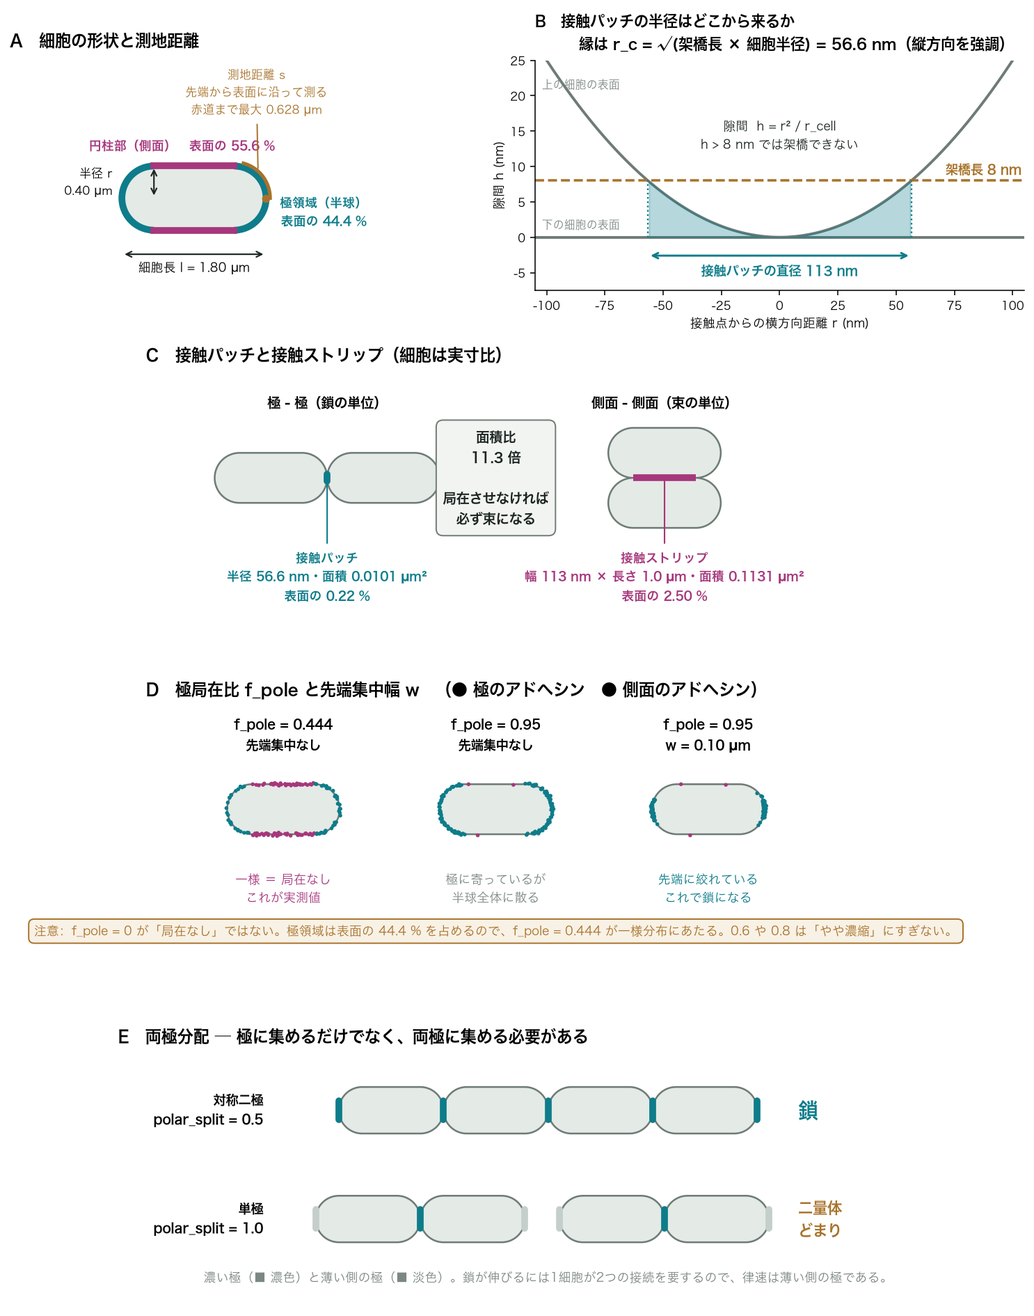
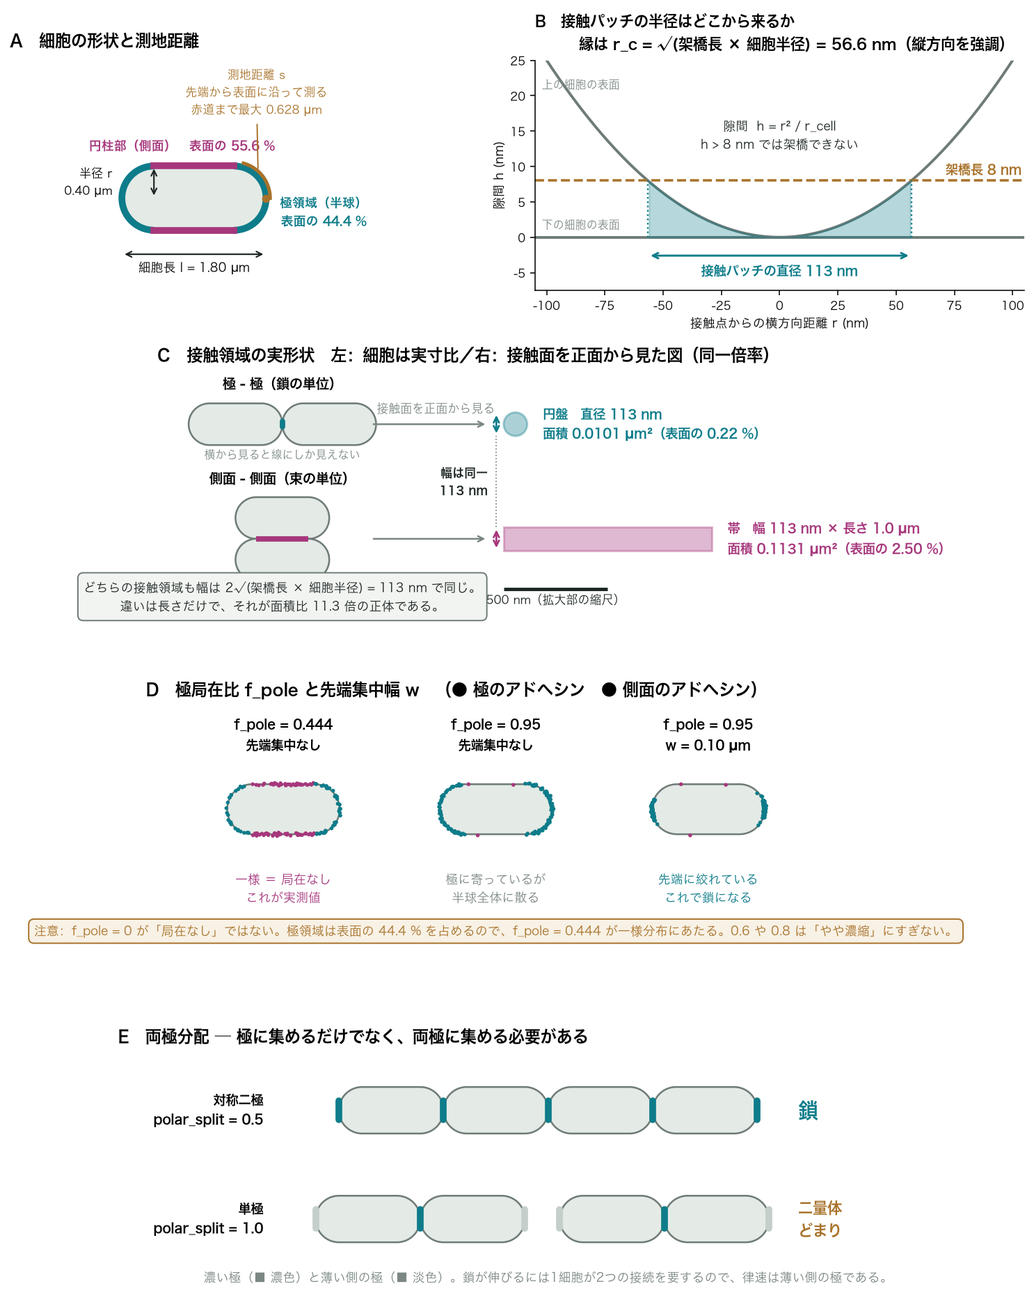
fix: 原著PDFの全文照合で見つかった書誌情報と f_p の誤りを修正した。
Costan et al. (2024) の PDF 全文を読み、モデルが使っている全パラメータを
本文と照合した。値そのものは 13 項目すべて正しかったが、書誌情報と
パラメータの意味づけに4件の誤りがあった。

修正した誤り:

1. 著者名。"Costan, Sara A." は誤りで、正しくは "Costan, Stefana A."。
   共著者も Ryan, P. M. と Wolgemuth, C. W. が欠けていた。
   正しくは Costan, Ryan, Kim, Wolgemuth, Riedel-Kruse の5名。

2. ページ番号。2836-2854 は誤りで、正しくは 2125-2143。

3. f_p = 0.5 の意味。「幾何的に届く分子のうち結合する割合」と説明していたが、
   原著では「プラスミドコピー数の非対称に対する補正係数」である。ナノボディ側が
   中コピー数（20-30）、抗原側が低コピー数（10-12）プラスミドに載っており、
   抗原が律速になるため 0.5 倍している。数値は変わらないが根拠が違う。
   両アドヘシンを同コピー数で発現させれば f_p は 1.0 に近づき、結合数は
   倍になりうる。これは設計上意味を持つので A4 の影響欄に明記した。

4. 破断力の不確かさ。本文の 16.1 ± 0.4 pN (n=14) に加え、要約表には
   系統誤差 1.8 pN が併記され、値も 16.2 と表記されている。また文献からの
   期待値は 28-45 pN で実測はそれより小さい。これらを注記した。

本文で確認できた事項:

- 2M = 8 nm は "the adhesin pair length" と明記されており、2細胞をまたぐ
  総額である。両細胞ぶんを足さない扱いが正しいことが確定した。
- 一様分布は「中央と極の10ピクセルで有意差なし (t検定 p = 0.56)」による。
- A_con = 0.002-0.036、結合数 7 ± 2（垂直配置）と 130 ± 30（水平配置）、
  無秩序充填で 30 ± 5。いずれも一致。
- N(100) = 7,300 ± 1,800、N(300) = 15,300 ± 4,100 (n=20)、
  表面密度 3,400 ± 1,200 /µm²、D = 0.36 ± 0.06 µm²/s、Mf = 0.37 ± 0.04。
  すべて一致。

あわせて用語図のパネルCを描き直した。接触領域を横から見た線として描いていて
面積であることが伝わらなかったため、接触面を正面から見た実形状（円盤と帯）を
同一倍率で並べる方式にした。2つの接触領域は幅が同一（113 nm）で、違いは
長さだけであることが図から読み取れる。

Changed region(s): [[0.0929, 0.2497, 0.8977, 0.4683]]

diff --git a/scripts/make_glossary_figure.py b/scripts/make_glossary_figure.py
@@ -26,7 +26,7 @@ matplotlib.use("Agg")
 import matplotlib.pyplot as plt
 import numpy as np
 from matplotlib import font_manager
-from matplotlib.patches import Arc, Polygon
+from matplotlib.patches import Arc, Circle, Polygon, Rectangle
 
 sys.path.insert(0, str(Path(__file__).resolve().parent.parent))
 
@@ -261,41 +261,96 @@ def panel_gap(axes):
 
 
 def panel_patch_vs_strip(axes):
-    """実寸比。パッチが線1本分にしか見えないことが要点。"""
-    # 左: 極 - 極
-    axes.text(-2.7, 1.42, "極 - 極（鎖の単位）", ha="center", fontsize=10, weight="bold")
-    draw_cell(axes, -3.6, 0.30)
-    draw_cell(axes, -1.8, 0.30)
-    axes.plot([-2.7, -2.7], [0.30 - PATCH_RADIUS, 0.30 + PATCH_RADIUS],
-              color=COLOR_POLE, lw=5, solid_capstyle="round", zorder=6)
-    axes.annotate(
-        "接触パッチ\n半径 56.6 nm・面積 0.0101 µm²\n表面の 0.22 %",
-        xy=(-2.7, 0.30), xytext=(-2.7, -1.28),
-        fontsize=9, color=COLOR_POLE, weight="bold", ha="center", va="center",
-        arrowprops=dict(arrowstyle="-", color=COLOR_POLE, lw=1.1),
-    )
+    """接触領域を正面から見た実形状で比較する。
 
-    # 右: 側面 - 側面
-    axes.text(2.7, 1.42, "側面 - 側面（束の単位）", ha="center", fontsize=10, weight="bold")
-    draw_cell(axes, 2.7, 0.30 + RADIUS)
-    draw_cell(axes, 2.7, 0.30 - RADIUS)
-    axes.plot([2.7 - HALF_CYLINDER, 2.7 + HALF_CYLINDER], [0.30, 0.30],
-              color=COLOR_SIDE, lw=5, solid_capstyle="butt", zorder=6)
-    axes.annotate(
-        "接触ストリップ\n幅 113 nm × 長さ 1.0 µm・面積 0.1131 µm²\n表面の 2.50 %",
-        xy=(2.7, 0.30), xytext=(2.7, -1.28),
-        fontsize=9, color=COLOR_SIDE, weight="bold", ha="center", va="center",
-        arrowprops=dict(arrowstyle="-", color=COLOR_SIDE, lw=1.1),
+    横から見ると接触領域は線にしか見えず、面積であることが伝わらない。
+    そこで接触面を正面から見た形を同一倍率で並べ、面積比を目で見えるようにする。
+
+    要点は、2つの接触領域が同じ幅を持つこと。どちらも幅は
+    2 * sqrt(架橋長 * 細胞半径) = 113 nm で決まり、違いは長さだけである。
+    """
+    ZOOM = 4.0                                # 拡大部の縮尺: 1 µm = 4 データ単位
+    patch_diameter = 2 * PATCH_RADIUS         # 0.1131 µm
+    strip_length = LENGTH - 2 * RADIUS        # 1.0 µm
+    left_edge = 0.55                          # 拡大形状の左端をそろえる
+    width_drawn = patch_diameter * ZOOM
+
+    # ---------------- 上段: 極 - 極 ----------------
+    y_top = 1.15
+    draw_cell(axes, -4.60, y_top)
+    draw_cell(axes, -2.80, y_top)
+    axes.plot([-3.70, -3.70], [y_top - PATCH_RADIUS, y_top + PATCH_RADIUS],
+              color=COLOR_POLE, lw=4, solid_capstyle="round", zorder=6)
+    axes.text(-3.70, y_top + 0.68, "極 - 極（鎖の単位）",
+              ha="center", fontsize=10, weight="bold")
+    axes.text(-3.70, y_top - 0.66, "横から見ると線にしか見えない",
+              ha="center", fontsize=8, color=COLOR_MUTED, style="italic")
+
+    radius_drawn = 0.5 * width_drawn
+    axes.add_patch(
+        Circle((left_edge + radius_drawn, y_top), radius_drawn,
+               facecolor=COLOR_POLE, alpha=0.35, edgecolor=COLOR_POLE, lw=1.6, zorder=4)
     )
+    axes.annotate("", xy=(left_edge - 0.30, y_top), xytext=(-2.00, y_top),
+                  arrowprops=dict(arrowstyle="->", color=COLOR_MUTED, lw=1.3))
+    axes.text(-0.75, y_top + 0.22, "接触面を正面から見る",
+              ha="center", fontsize=8.5, color=COLOR_MUTED)
+    axes.text(left_edge + width_drawn + 0.30, y_top,
+              "円盤　直径 113 nm\n面積 0.0101 µm²（表面の 0.22 %）",
+              ha="left", va="center", fontsize=9.5, color=COLOR_POLE, weight="bold")
+
+    # ---------------- 下段: 側面 - 側面 ----------------
+    y_bottom = -1.05
+    draw_cell(axes, -3.70, y_bottom + RADIUS)
+    draw_cell(axes, -3.70, y_bottom - RADIUS)
+    axes.plot([-3.70 - HALF_CYLINDER, -3.70 + HALF_CYLINDER], [y_bottom, y_bottom],
+              color=COLOR_SIDE, lw=4, solid_capstyle="butt", zorder=6)
+    axes.text(-3.70, y_bottom + 1.06, "側面 - 側面（束の単位）",
+              ha="center", fontsize=10, weight="bold")
+    axes.text(-3.70, y_bottom - 1.08, "同じく線にしか見えない",
+              ha="center", fontsize=8, color=COLOR_MUTED, style="italic")
+
+    axes.add_patch(
+        Rectangle((left_edge, y_bottom - width_drawn / 2),
+                  strip_length * ZOOM, width_drawn,
+                  facecolor=COLOR_SIDE, alpha=0.35, edgecolor=COLOR_SIDE,
+                  lw=1.6, zorder=4)
+    )
+    axes.annotate("", xy=(left_edge - 0.30, y_bottom), xytext=(-2.00, y_bottom),
+                  arrowprops=dict(arrowstyle="->", color=COLOR_MUTED, lw=1.3))
+    axes.text(left_edge + strip_length * ZOOM + 0.30, y_bottom,
+              "帯　幅 113 nm × 長さ 1.0 µm\n面積 0.1131 µm²（表面の 2.50 %）",
+              ha="left", va="center", fontsize=9.5, color=COLOR_SIDE, weight="bold")
+
+    # ---------------- 幅が同一であることを示す ----------------
+    for y, colour in ((y_top, COLOR_POLE), (y_bottom, COLOR_SIDE)):
+        axes.annotate(
+            "", xy=(left_edge - 0.14, y - width_drawn / 2),
+            xytext=(left_edge - 0.14, y + width_drawn / 2),
+            arrowprops=dict(arrowstyle="<->", color=colour, lw=1.4),
+        )
+    axes.plot([left_edge - 0.14] * 2,
+              [y_bottom + width_drawn / 2, y_top - width_drawn / 2],
+              color=COLOR_MUTED, lw=0.9, ls=":")
+    axes.text(left_edge - 0.30, 0.05, "幅は同一\n113 nm", ha="right", va="center",
+              fontsize=8.5, color=COLOR_INK, weight="bold")
+
+    # 拡大部の縮尺バー
+    axes.plot([left_edge, left_edge + 0.5 * ZOOM], [-2.02, -2.02],
+              color=COLOR_INK, lw=2.5, solid_capstyle="butt")
+    axes.text(left_edge + ZOOM * 0.25, -2.30, "500 nm（拡大部の縮尺）",
+              ha="center", fontsize=8.5, color=COLOR_INK)
 
     axes.text(
-        0, 0.30, "面積比\n11.3 倍\n\n局在させなければ\n必ず束になる",
-        fontsize=10, ha="center", va="center", weight="bold", color=COLOR_INK,
-        bbox=dict(boxstyle="round,pad=0.5", facecolor="#F2F4F1", edgecolor=COLOR_EDGE),
+        -3.70, -2.16,
+        "どちらの接触領域も幅は 2√(架橋長 × 細胞半径) = 113 nm で同じ。\n"
+        "違いは長さだけで、それが面積比 11.3 倍の正体である。",
+        ha="center", va="center", fontsize=9, color=COLOR_INK,
+        bbox=dict(boxstyle="round,pad=0.45", facecolor="#F2F4F1", edgecolor=COLOR_EDGE),
     )
 
-    finish(axes, (-5.6, 5.6), (-2.05, 1.95),
-           "C　接触パッチと接触ストリップ（細胞は実寸比）")
+    finish(axes, (-6.1, 6.9), (-2.70, 2.10),
+           "C　接触領域の実形状　左：細胞は実寸比／右：接触面を正面から見た図（同一倍率）")
 
 
 def panel_localization(axes):

diff --git a/adhesion/literature.py b/adhesion/literature.py
@@ -45,7 +45,10 @@ class Reference:
 REFERENCES: dict[str, Reference] = {
     "costan2024": Reference(
         key="costan2024",
-        authors="Costan, Sara A. and Kim, Honesty and Others",
+        authors=(
+            "Costan, Stefana A. and Ryan, Paul M. and Kim, Honesty and "
+            "Wolgemuth, Charles W. and Riedel-Kruse, Ingmar H."
+        ),
         title=(
             "Biophysical characterization of synthetic adhesins for predicting "
             "and tuning engineered living material properties"
@@ -53,7 +56,7 @@ REFERENCES: dict[str, Reference] = {
         journal="Matter",
         year=2024,
         volume="7",
-        pages="2836-2854",
+        pages="2125-2143",
         doi="10.1016/j.matt.2024.03.019",
     ),
     "glass2018": Reference(
@@ -176,7 +179,11 @@ RUPTURE_FORCE = LiteratureValue(
     unit="pN",
     quantity="単一アドヘシン結合の破断力",
     source="costan2024",
-    note="光ピンセットによる測定。荷重速度 5–100 pN/s の範囲で値は変わらなかった。",
+    note=(
+        "光ピンセットによる測定（n = 14 細胞）。本文の値は 16.1 ± 0.4 pN だが、"
+        "論文の要約表では 16.2 と表記され、系統誤差 1.8 pN が併記されている。"
+        "本モデルは本文の値を採る。なお文献からの期待値は 28–45 pN で、実測はそれより小さい。"
+    ),
 )
 
 MEMBRANE_DIFFUSION = LiteratureValue(
@@ -196,6 +203,20 @@ MOBILE_FRACTION = LiteratureValue(
     quantity="拡散可能なアドヘシンの割合",
     source="costan2024",
     note="残り63%は不動。外膜タンパクの島構造と整合的。",
+)
+
+COPY_NUMBER_CORRECTION = LiteratureValue(
+    symbol="f_p",
+    value=0.5,
+    unit="",
+    quantity="プラスミドコピー数の非対称に対する補正係数",
+    source="costan2024",
+    note=(
+        "ナノボディ側は中コピー数プラスミド（20–30 コピー）、抗原側は低コピー数"
+        "プラスミド（10–12 コピー）に載っている。抗原の数が約半分で結合数の律速に"
+        "なるため、著者らは総分子数を 0.5 倍して結合ペア数を見積もっている。"
+        "「幾何的に届く分子のうち結合する割合」ではないことに注意。"
+    ),
 )
 
 # --------------------------------------------------------------------------
@@ -308,6 +329,7 @@ ALL_VALUES: list[LiteratureValue] = [
     RUPTURE_FORCE,
     MEMBRANE_DIFFUSION,
     MOBILE_FRACTION,
+    COPY_NUMBER_CORRECTION,
     ADHESINS_AT_MID_INDUCTION,
     ADHESINS_AT_MAX_INDUCTION,
     SURFACE_DENSITY_AT_MAX,

diff --git a/adhesion/assumptions.py b/adhesion/assumptions.py
@@ -98,16 +98,19 @@ A3_FACING_NORMALS = Assumption(
 A4_FUNCTIONAL_FRACTION = Assumption(
     id="A4",
     statement=(
-        "幾何的に接触可能なアドヘシンのうち、実際に結合を形成するのは f_p = 0.5 とする。"
+        "接触可能なアドヘシン数に補正係数 f_p = 0.5 を掛けて結合ペア数とする。"
     ),
     rationale=(
-        "Costan et al. (2024) の式(4) に現れる機能割合 f_p を、本モデルの接触分子数から"
-        "逆算すると 0.30（極接触）〜0.65（側面接触）となった。その中央付近を採用している。"
+        "Costan et al. (2024) の構成では、ナノボディ側が中コピー数プラスミド"
+        "（20–30 コピー）、抗原側が低コピー数プラスミド（10–12 コピー）に載っており、"
+        "抗原の数が約半分で結合数の律速になる。著者らはこの非対称を 0.5 倍で補正している。"
+        "すなわち f_p はプラスミド構成に由来する量であって、分子の機能率ではない。"
     ),
     impact=(
-        "結合数に線形に効く。ただし極接触と側面接触の双方に同じ係数がかかるので、"
-        "鎖か束かの判定と、形態の閾値 f_pole には影響しない。"
-        "影響するのは接合強度の絶対値のみ。"
+        "結合数に線形に効く。極接触と側面接触の双方に同じ係数がかかるため、鎖か束かの"
+        "判定と形態の閾値 f_pole には影響せず、効くのは接合強度の絶対値だけである。"
+        "ただしプラスミド構成が変われば f_p も変わる。両アドヘシンを同じコピー数で"
+        "発現させれば f_p は 1.0 に近づき、結合数は倍になりうる。"
     ),
     status=Status.SUPPORTED,
 )

diff --git a/adhesion/model.py b/adhesion/model.py
@@ -35,8 +35,8 @@ CELL_RADIUS_UM = float(lit.CELL_RADIUS)
 BRIDGE_UM = float(lit.BRIDGE_LENGTH) / 1000.0
 RUPTURE_FORCE_PN = float(lit.RUPTURE_FORCE)
 
-#: 幾何的に接触可能な分子のうち実際に結合を作る割合（A4）。
-FUNCTIONAL_FRACTION = 0.5
+#: プラスミドコピー数の非対称に対する補正係数（A4）。抗原側が律速になる。
+FUNCTIONAL_FRACTION = float(lit.COPY_NUMBER_CORRECTION)
 
 #: 局在を操作しない場合の分布（A10）。Costan et al. (2024) の実測は一様。
 UNIFORM_F_POLE = polar_area_fraction(CELL_LENGTH_UM, CELL_RADIUS_UM)

diff --git a/docs/parameters.md b/docs/parameters.md
@@ -5,16 +5,17 @@
 モデルが使う物理定数の一覧。すべて `adhesion/literature.py` で出典と一体で
 定義されており、コード中に数値を直書きしている箇所はない。
 
-内訳はCostan et al. (2024) から 15 件、Tirado et al. (1979) から 1 件。
+内訳はCostan et al. (2024) から 16 件、Tirado et al. (1979) から 1 件。
 
 | 記号 | 量 | 値 | 出典 | 備考 |
 |---|---|---:|---|---|
 | `l` | 細胞の全長 | 1.80 ± 0.25 µm | [Costan et al. (2024)](https://doi.org/10.1016/j.matt.2024.03.019) | スフェロシリンダー（円柱＋両端半球）として扱ったときの端から端まで。 |
 | `r` | 細胞の半径 | 0.40 ± 0.10 µm | [Costan et al. (2024)](https://doi.org/10.1016/j.matt.2024.03.019) |  |
 | `2M` | アドヘシン対が架橋できる全長 | 8.00 nm | [Costan et al. (2024)](https://doi.org/10.1016/j.matt.2024.03.019) | 片方の細胞表面から、ナノボディと抗原の両方を経て、相手の細胞表面までの全長。2細胞をまたぐ総額なので、両細胞ぶんを足してはいけない。 |
-| `F_b` | 単一アドヘシン結合の破断力 | 16.1 ± 0.4 pN | [Costan et al. (2024)](https://doi.org/10.1016/j.matt.2024.03.019) | 光ピンセットによる測定。荷重速度 5–100 pN/s の範囲で値は変わらなかった。 |
+| `F_b` | 単一アドヘシン結合の破断力 | 16.1 ± 0.4 pN | [Costan et al. (2024)](https://doi.org/10.1016/j.matt.2024.03.019) | 光ピンセットによる測定（n = 14 細胞）。本文の値は 16.1 ± 0.4 pN だが、論文の要約表では 16.2 と表記され、系統誤差 1.8 pN が併記されている。本モデルは本文の値を採る。なお文献からの期待値は 28–45 pN で、実測はそれより小さい。 |
 | `D` | 外膜内でのアドヘシンの拡散係数 | 0.36 ± 0.06 µm²/s | [Costan et al. (2024)](https://doi.org/10.1016/j.matt.2024.03.019) |  |
 | `M_f` | 拡散可能なアドヘシンの割合 | 0.37 ± 0.04 | [Costan et al. (2024)](https://doi.org/10.1016/j.matt.2024.03.019) | 残り63%は不動。外膜タンパクの島構造と整合的。 |
+| `f_p` | プラスミドコピー数の非対称に対する補正係数 | 0.50 | [Costan et al. (2024)](https://doi.org/10.1016/j.matt.2024.03.019) | ナノボディ側は中コピー数プラスミド（20–30 コピー）、抗原側は低コピー数プラスミド（10–12 コピー）に載っている。抗原の数が約半分で結合数の律速になるため、著者らは総分子数を 0.5 倍して結合ペア数を見積もっている。「幾何的に届く分子のうち結合する割合」ではないことに注意。 |
 | `N_100` | アドヘシン数（100 ng/mL aTc 誘導時） | 7,300 ± 1,800 分子/細胞 | [Costan et al. (2024)](https://doi.org/10.1016/j.matt.2024.03.019) |  |
 | `N_300` | アドヘシン数（300 ng/mL aTc、飽和誘導時） | 15,300 ± 4,100 分子/細胞 | [Costan et al. (2024)](https://doi.org/10.1016/j.matt.2024.03.019) |  |
 | `σ_300` | 表面密度（飽和誘導時） | 3,400 ± 1,200 分子/µm² | [Costan et al. (2024)](https://doi.org/10.1016/j.matt.2024.03.019) | 外膜タンパク全種の総密度（10⁵ /µm² のオーダー）の数%にすぎない。 |
@@ -38,10 +39,10 @@
 
 ## 引用文献
 
-- Costan, Sara A. and Kim, Honesty and Others (2024). Biophysical characterization of synthetic adhesins for predicting and tuning engineered living material properties. *Matter **7**, 2836-2854*. <https://doi.org/10.1016/j.matt.2024.03.019>
+- Costan, Stefana A. and Ryan, Paul M. and Kim, Honesty and Wolgemuth, Charles W. and Riedel-Kruse, Ingmar H. (2024). Biophysical characterization of synthetic adhesins for predicting and tuning engineered living material properties. *Matter **7**, 2125-2143*. <https://doi.org/10.1016/j.matt.2024.03.019>
 - Glass, David S. and Riedel-Kruse, Ingmar H. (2018). A Synthetic Bacterial Cell-Cell Adhesion Toolbox for Programming Multicellular Morphologies and Patterns. *Cell **174**, 649-658*. <https://doi.org/10.1016/j.cell.2018.06.041>
 - Rassam, Patrice and Copeland, Nicholas A. and Others (2015). Supramolecular assemblies underpin turnover of outer membrane proteins in bacteria. *Nature **523**, 333-336*. <https://doi.org/10.1038/nature14461>
 - Tirado, Maria M. and Garcia de la Torre, Jose (1979). Translational friction coefficients of rigid, symmetric top macromolecules. Application to circular cylinders. *The Journal of Chemical Physics **71**, 2581-2587*. <https://doi.org/10.1063/1.438613>
 
 ---
-生成日: 2026-08-20
+生成日: 2026-08-21

diff --git a/docs/assumptions.md b/docs/assumptions.md
@@ -14,7 +14,7 @@
 | A1 | 細胞を変形しない剛体スフェロシリンダー（円柱＋両端半球）として扱う。 | 意図的な簡略化 |
 | A2 | 2細胞の表面間距離が架橋長 2M = 8 nm 以内なら、そこにあるアドヘシンは結合しうるとみなす。 | 文献に支持されている |
 | A3 | 結合が成立するには、距離条件に加えて両表面の法線が向き合っている（なす角が 180° から 60° 以内）必要があるとする。 | 意図的な簡略化 |
-| A4 | 幾何的に接触可能なアドヘシンのうち、実際に結合を形成するのは f_p = 0.5 とする。 | 文献に支持されている |
+| A4 | 接触可能なアドヘシン数に補正係数 f_p = 0.5 を掛けて結合ペア数とする。 | 文献に支持されている |
 | A5 | 1つのアドヘシン分子は同時に1本しか結合を作らない。 | 文献に支持されている |
 | A6 | 極への局在は、極先端からの測地距離に対するガウス分布（幅 w）でモデル化する。 | 未検証・要確認 |
 | A7 | 2細胞はすでに接触しているものとし、衝突するまでの待ち時間・結合の寿命・解離速度定数は扱わない。 | 意図的な簡略化 |
@@ -46,13 +46,13 @@
 
 **破れた場合の影響**　この角度閾値は接触面積の縁をわずかに削るだけで、結合数への影響は数%に留まる。閾値を 45°–90° で振っても結論は変わらない。
 
-### A4　幾何的に接触可能なアドヘシンのうち、実際に結合を形成するのは f_p = 0.5 とする。
+### A4　接触可能なアドヘシン数に補正係数 f_p = 0.5 を掛けて結合ペア数とする。
 
 **性格**　文献に支持されている
 
-**根拠**　Costan et al. (2024) の式(4) に現れる機能割合 f_p を、本モデルの接触分子数から逆算すると 0.30（極接触）〜0.65（側面接触）となった。その中央付近を採用している。
+**根拠**　Costan et al. (2024) の構成では、ナノボディ側が中コピー数プラスミド（20–30 コピー）、抗原側が低コピー数プラスミド（10–12 コピー）に載っており、抗原の数が約半分で結合数の律速になる。著者らはこの非対称を 0.5 倍で補正している。すなわち f_p はプラスミド構成に由来する量であって、分子の機能率ではない。
 
-**破れた場合の影響**　結合数に線形に効く。ただし極接触と側面接触の双方に同じ係数がかかるので、鎖か束かの判定と、形態の閾値 f_pole には影響しない。影響するのは接合強度の絶対値のみ。
+**破れた場合の影響**　結合数に線形に効く。極接触と側面接触の双方に同じ係数がかかるため、鎖か束かの判定と形態の閾値 f_pole には影響せず、効くのは接合強度の絶対値だけである。ただしプラスミド構成が変われば f_p も変わる。両アドヘシンを同じコピー数で発現させれば f_p は 1.0 に近づき、結合数は倍になりうる。
 
 ### A5　1つのアドヘシン分子は同時に1本しか結合を作らない。
 
@@ -104,4 +104,4 @@
 
 
 ---
-生成日: 2026-08-20
+生成日: 2026-08-21

diff --git a/README.md b/README.md
@@ -103,7 +103,7 @@ RUPTURE_FORCE = LiteratureValue(
     unit="pN",
     quantity="単一アドヘシン結合の破断力",
     source="costan2024",
-    note="光ピンセットによる測定。荷重速度 5–100 pN/s の範囲で値は変わらなかった。",
+    note="光ピンセットによる測定（n = 14 細胞）。要約表では 16.2、系統誤差 1.8 pN。",
 )
 ```
 
@@ -219,9 +219,9 @@ predict(7300, 0.95, 1.0, tip_width_um=0.10).morphology    # 二量体どまり
 
 ## 引用文献
 
-- Costan, S. A., Kim, H. et al. (2024). Biophysical characterization of synthetic
+- Costan, S. A., Ryan, P. M., Kim, H., Wolgemuth, C. W. & Riedel-Kruse, I. H. (2024). Biophysical characterization of synthetic
   adhesins for predicting and tuning engineered living material properties.
-  *Matter* **7**, 2836–2854. <https://doi.org/10.1016/j.matt.2024.03.019>
+  *Matter* **7**, 2125–2143. <https://doi.org/10.1016/j.matt.2024.03.019>
 - Glass, D. S. & Riedel-Kruse, I. H. (2018). A Synthetic Bacterial Cell-Cell Adhesion
   Toolbox for Programming Multicellular Morphologies and Patterns.
   *Cell* **174**, 649–658. <https://doi.org/10.1016/j.cell.2018.06.041>
